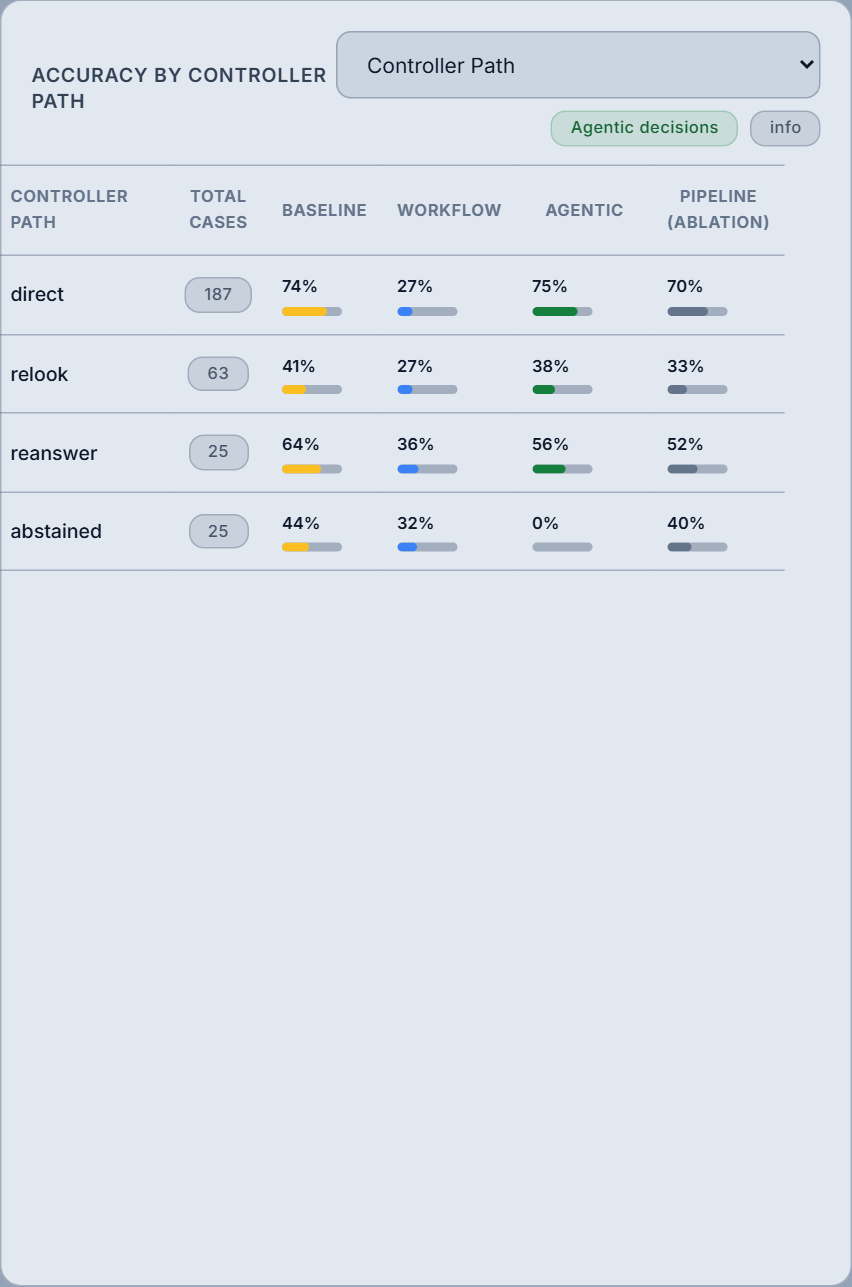
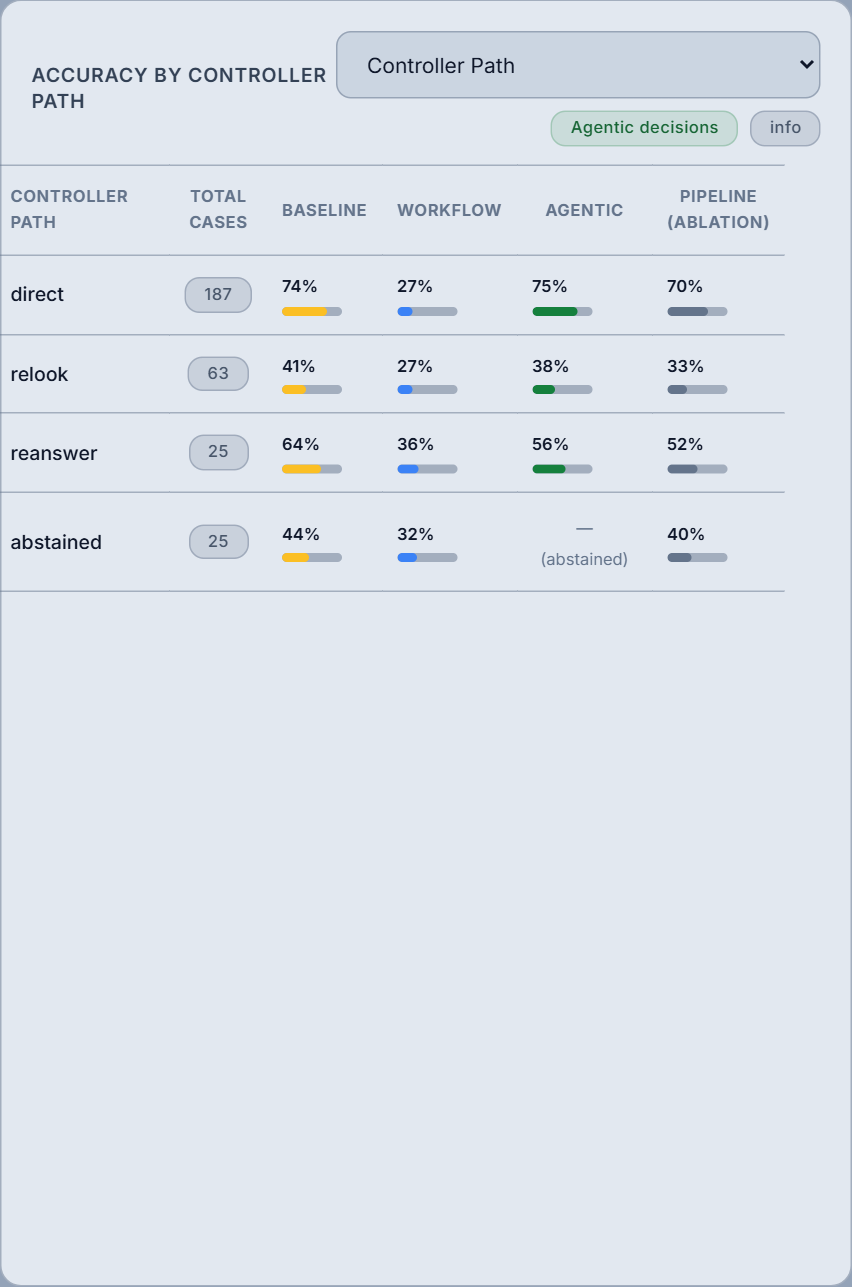
Dashboard: abstained row shows '— (abstained)' for the agentic loop, not 0%
The loop gave no answer on those cases; this matches the README table.

diff --git a/frontend/src/components/EvaluationView.jsx b/frontend/src/components/EvaluationView.jsx
@@ -410,7 +410,14 @@ export default function EvaluationView({ loading, evaluationData, error, onRefre
                         <td><span className="tag tag-gray">{item.count}</span></td>
                         <td><BreakdownAccuracyCell value={item.baseline_accuracy} color="var(--color-warning)" /></td>
                         <td><BreakdownAccuracyCell value={item.workflow_accuracy} color="var(--color-accent)" /></td>
-                        <td><BreakdownAccuracyCell value={item.agentic_accuracy} color="var(--color-success)" /></td>
+                        <td>
+                          {isControllerMode && (item.question_type || item.label) === 'abstained' ? (
+                            // The loop gave no answer on these cases, so an accuracy (0%) would be misleading.
+                            <span style={{ fontSize: '11px', color: 'var(--color-text-muted)' }}>— (abstained)</span>
+                          ) : (
+                            <BreakdownAccuracyCell value={item.agentic_accuracy} color="var(--color-success)" />
+                          )}
+                        </td>
                         {hasPipeline && (
                           <td>
                             {item.pipeline_accuracy === null || item.pipeline_accuracy === undefined
